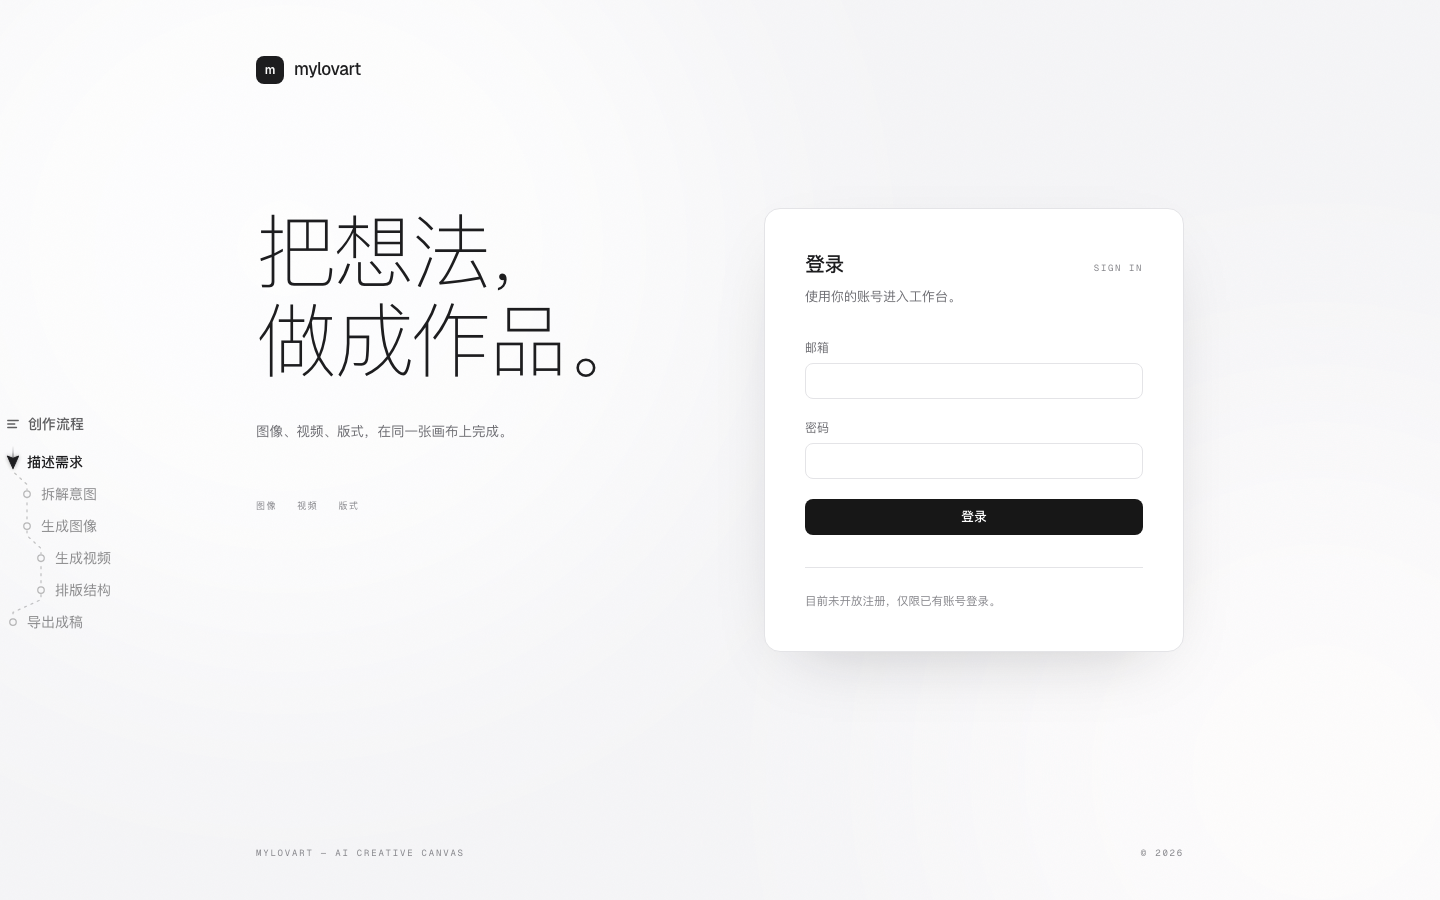
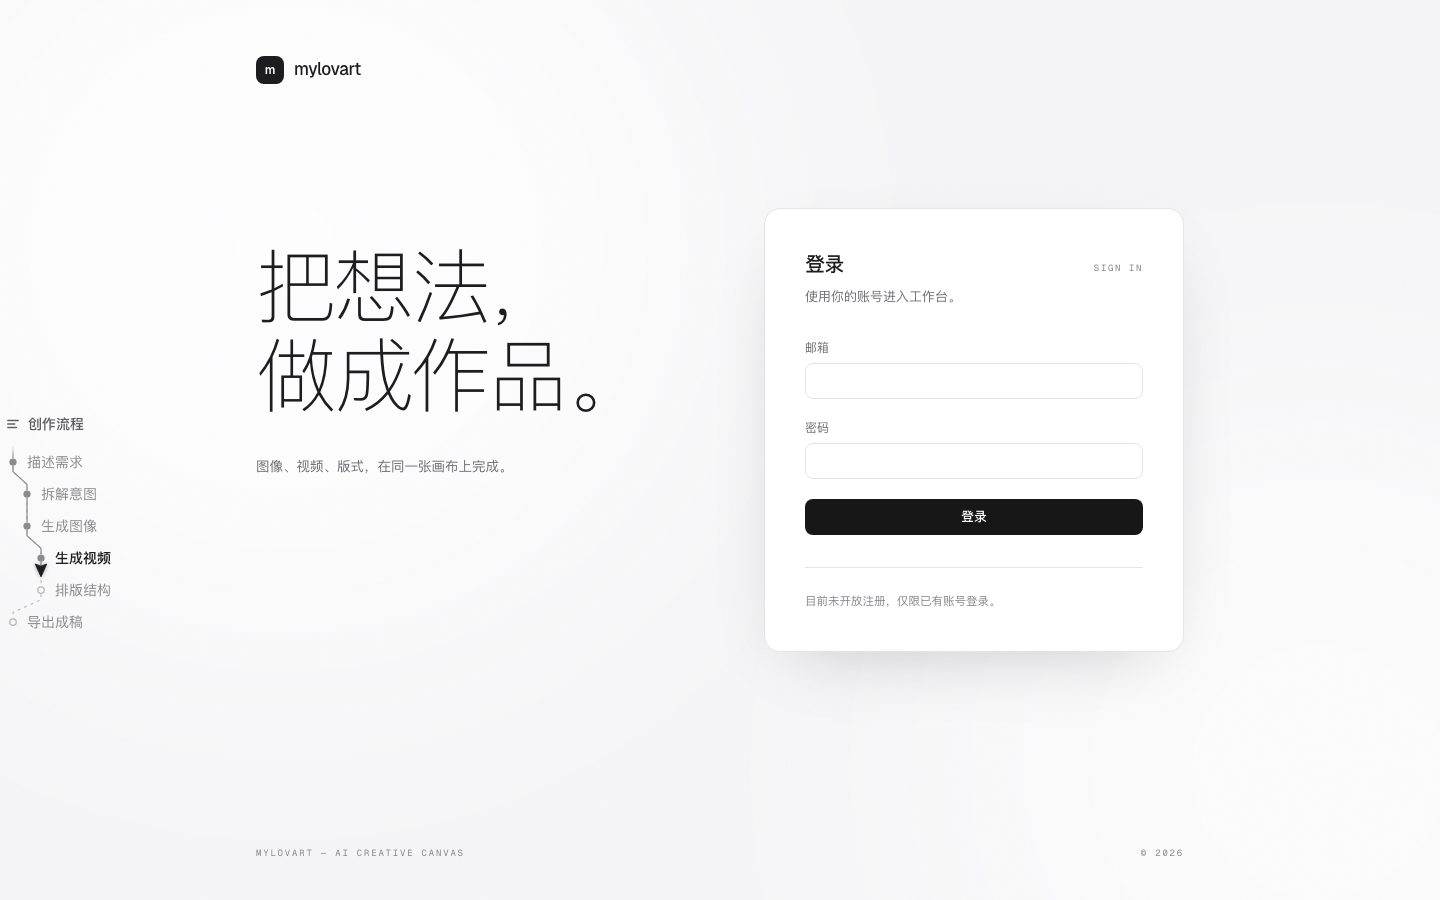
feat: 流程轨道改为自动循环，移除首页媒体标签

Changed region(s): [[0.1875, 0.2178, 0.4062, 0.5289], [0.0312, 0.5911, 0.0938, 0.6222], [0.0, 0.4978, 0.0625, 0.5289]]

diff --git a/apps/web/src/components/ui/rail-toc.tsx b/apps/web/src/components/ui/rail-toc.tsx
@@ -60,6 +60,8 @@ function lengthAtY(path: SVGPathElement, total: number, y: number) {
 
 export type RailTocProps = React.ComponentProps<"nav"> & {
   items: RailTocItem[]
+  /** 不依赖滚动，用计时器驱动进度，循环往复 */
+  autoLoop?: boolean
   containerRef?: React.RefObject<HTMLElement | null>
   offset?: number
   indent?: number
@@ -69,6 +71,7 @@ export type RailTocProps = React.ComponentProps<"nav"> & {
 const RailToc = ({
   className,
   items,
+  autoLoop = false,
   containerRef,
   offset = 96,
   indent = 14,
@@ -234,6 +237,7 @@ const RailToc = ({
   }, [geometry, sync, pose, distance])
 
   React.useEffect(() => {
+    if (autoLoop) return
     const scroller = containerRef?.current ?? window
     const onIntent = () => {
       userScrolled.current = true
@@ -257,6 +261,29 @@ const RailToc = ({
       window.removeEventListener("resize", sync)
     }
   }, [containerRef, sync])
+
+  // autoLoop：进度由时间驱动，来回往返，避免循环接缝处跳变
+  React.useEffect(() => {
+    if (!autoLoop || !geometry) return
+    const span = total.current
+    if (!span) return
+
+    const CYCLE = 10000
+    const DOWN = 0.62
+    let raf = 0
+    const start = performance.now()
+
+    const tick = (now: number) => {
+      const phase = ((now - start) % CYCLE) / CYCLE
+      const u = phase < DOWN ? phase / DOWN : 1 - (phase - DOWN) / (1 - DOWN)
+      const eased = u * u * (3 - 2 * u)
+      target.set(eased * span)
+      raf = requestAnimationFrame(tick)
+    }
+
+    raf = requestAnimationFrame(tick)
+    return () => cancelAnimationFrame(raf)
+  }, [autoLoop, geometry, target])
 
   const select = (index: number) => {
     const el = document.getElementById(items[index].id)

diff --git a/apps/web/src/app/page.tsx b/apps/web/src/app/page.tsx
@@ -2,8 +2,6 @@ import { HazeCanvas } from "@/components/haze-canvas";
 import { RailToc } from "@/components/ui/rail-toc";
 import { LoginForm } from "@/components/login-form";
 
-const mediums = ["图像", "视频", "版式"];
-
 const RAIL_ITEMS = [
   { id: "step-1", label: "描述需求", depth: 0 },
   { id: "step-2", label: "拆解意图", depth: 1 },
@@ -18,7 +16,7 @@ export default function Home() {
     <div className="relative min-h-dvh overflow-hidden bg-canvas">
       <HazeCanvas />
       <div className="absolute left-2 top-[46%] z-0 hidden xl:block">
-        <RailToc title="创作流程" items={RAIL_ITEMS} />
+        <RailToc title="创作流程" items={RAIL_ITEMS} autoLoop />
       </div>
 
       <div className="relative z-10 mx-auto grid min-h-dvh w-full max-w-[1040px] gap-12 px-7 pb-24 pt-10 lg:grid-cols-[1fr_420px] lg:items-stretch lg:gap-10 lg:px-14 lg:pb-24 lg:pt-14">
@@ -41,13 +39,6 @@ export default function Home() {
               图像、视频、版式，在同一张画布上完成。
             </p>
 
-            <div className="mt-14 flex items-center gap-5">
-              {mediums.map((m) => (
-                <span key={m} className="font-mono text-[9px] tracking-[0.18em] text-faint">
-                  {m}
-                </span>
-              ))}
-            </div>
           </div>
         </div>
 
